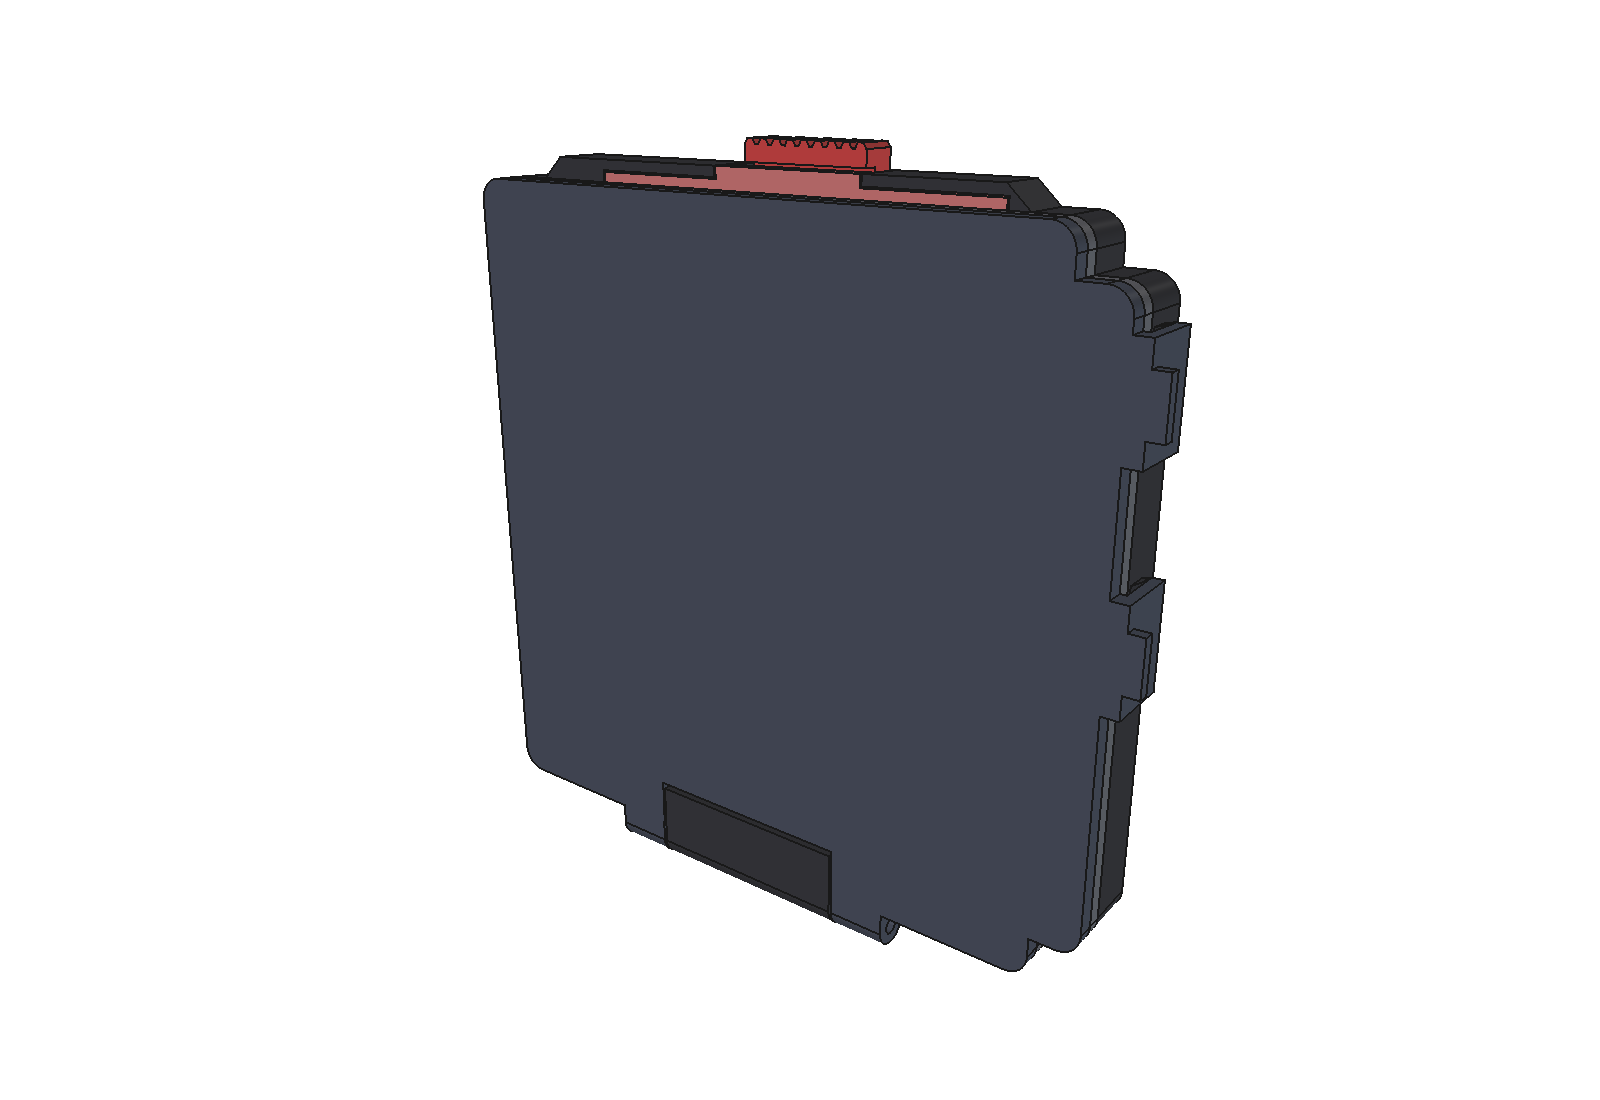
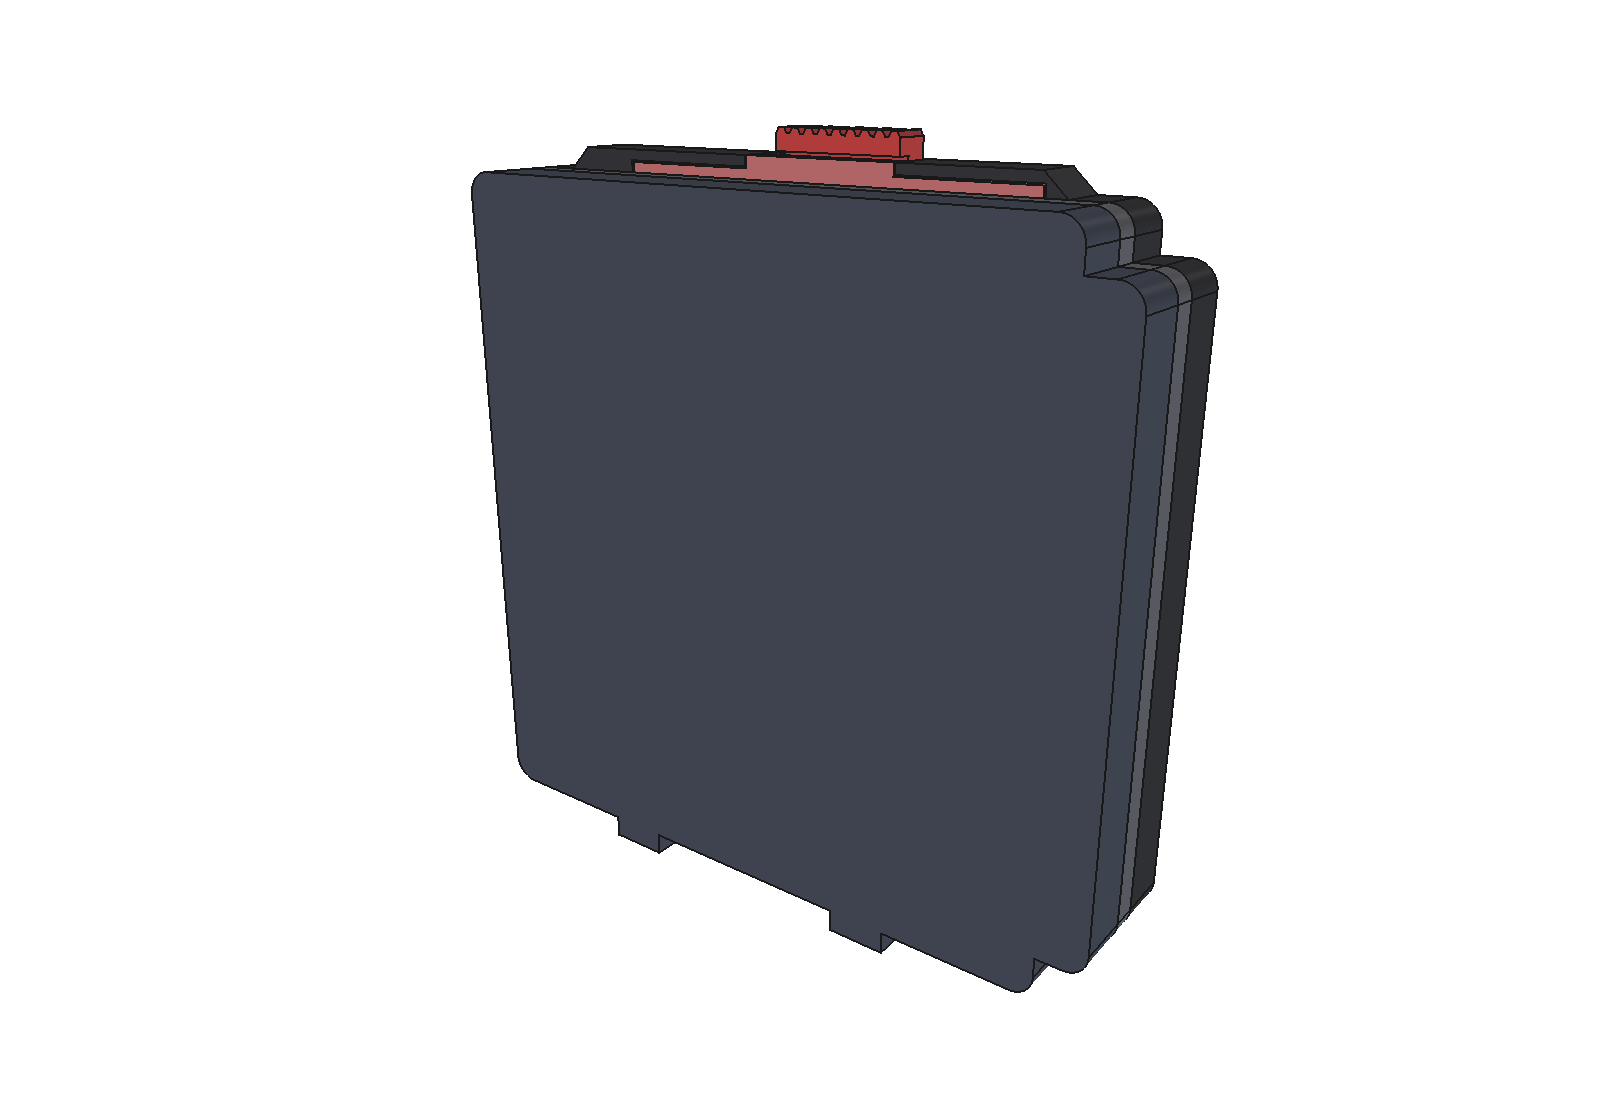
Views of the current cassette; release tags the built commit
- docs/vue-*.png regenerated: solid lid, magnets, no joint markers; the
  exploded view moves copies (the assembly joints put the originals back).
- tools/release.sh tags the commit that was built (--target), not the
  default branch, and publishes the lid for v0.1 pieces too.

Changed region(s): [[0.2812, 0.0927, 0.7812, 0.8964]]

diff --git a/tools/screenshots.py b/tools/screenshots.py
@@ -32,25 +32,26 @@ try:
     for o in doc.Objects:
         if o.Name.startswith("Volet"):
             o.ViewObject.Visibility = False
+        if o.TypeId == "Assembly::JointGroup" or hasattr(o, "JointType"):   # joint markers
+            o.ViewObject.Visibility = False
     # assembled, rear three-quarter (photographer side)
     look_from(view, V(0.9, 0.55, 1.2))
     view.saveImage(os.path.join(DOCS, "vue-assemblee.png"), 1600, 1100, "White")
     # exploded in assembly order, from the body side (w = 0) to the lid; dark slide pulled out to the left
     offsets = {"Piece1_Interface": (0, 0), "Glissiere_Verrou": (0, 12), "Capot_Verrou": (0, 22),
                "Volet": (-60, 30), "Piece2_CadreVerre": (0, 36), "Verre_57x57": (0, 50),
-               "Ressort_Croix": (0, 60), "Piece3_Couvercle": (0, 72)}
+               "Ressort_Croix": (0, 60), "Piece3_Couvercle": (0, 72),
+               "Aimant_piece2_droite": (0, 36), "Aimant_piece2_gauche": (0, 36),
+               "Aimant_couvercle_droite": (0, 72), "Aimant_couvercle_gauche": (0, 72)}
     for name, (du, dw) in offsets.items():
         o = doc.getObject(name)
         move = App.Placement(V(du, 0, dw), App.Rotation())
-        if o.ExpressionEngine:                    # placement driven by the sheet: move a copy
-            c = doc.addObject("Part::Feature", name + "_eclate")
-            c.Shape = o.Shape.transformGeometry(move.toMatrix())
-            c.ViewObject.ShapeAppearance = o.ViewObject.ShapeAppearance
-            c.ViewObject.Transparency = o.ViewObject.Transparency
-            o.ViewObject.Visibility = False
-        else:
-            o.ViewObject.Visibility = True
-            o.Placement = move.multiply(o.Placement)
+        # move a copy: the assembly joints and the sheet expressions put the originals back
+        c = doc.addObject("Part::Feature", name + "_eclate")
+        c.Shape = o.Shape.transformGeometry(move.toMatrix())
+        c.ViewObject.ShapeAppearance = o.ViewObject.ShapeAppearance
+        c.ViewObject.Transparency = o.ViewObject.Transparency
+        o.ViewObject.Visibility = False
     doc.recompute()
     look_from(view, V(1.6, 0.7, 0.8))
     view.saveImage(os.path.join(DOCS, "vue-eclatee.png"), 1600, 1100, "White")
